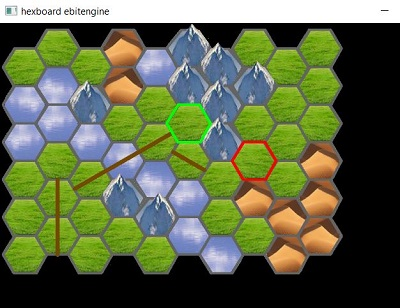
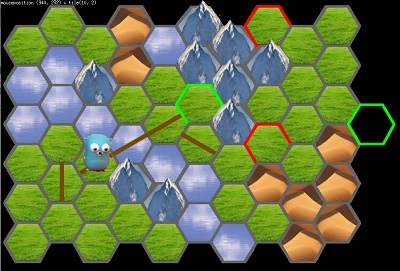
first sprite

diff --git a/main.go b/main.go
@@ -10,6 +10,11 @@ import (
 	"github.com/hajimehoshi/ebiten/v2/ebitenutil"
 )
 
+
+const screenWidth  = 1200
+const screenHeight = 800
+const maxAngle     = 256
+
 const columns = 10
 const rows = 6
 const tilewidth = 128
@@ -21,6 +26,8 @@ const floor1start = 4
 
 var terrainimages []*ebiten.Image
 var terrainimagenames [8]string
+var spriteimages []*ebiten.Image
+var spriteimagenames [8]string
 
 var terrainmap0 = [rows][columns]int{
 	{0, 0, 0, 3, 1, 2, 2, 0, 0, 0},
@@ -66,7 +73,6 @@ func init() {
 	terrainimagenames[5] = "road2.png"
 	terrainimagenames[6] = "companygreen.png"
 	terrainimagenames[7] = "companyred.png"
-
 	for i := 0; i < 8; i++ {
 		var err error
 		var tmpimage *ebiten.Image
@@ -78,6 +84,20 @@ func init() {
 		}
 		terrainimages = append(terrainimages, tmpimage)
 	}
+
+	spriteimagenames[0] = "gopher.png"
+	for i := 0; i < 1; i++ {
+		var err error
+		var tmpimage *ebiten.Image
+		var tmpstring string
+		tmpstring = "resources/sprites/" + spriteimagenames[i]
+		tmpimage, _, err = ebitenutil.NewImageFromFile(tmpstring)
+		if err != nil {
+			log.Fatal(err)
+		}
+		spriteimages = append(spriteimages, tmpimage)
+	}
+
 }
 
 type touch struct {
@@ -94,6 +114,9 @@ type Game struct {
 	cursor  pos
 	touches []touch
 	count   int
+	sprites  Sprites
+	inited   bool
+	op       ebiten.DrawImageOptions
 }
 
 type point struct {
@@ -118,7 +141,60 @@ type Orientation struct {
 };
 
 
+type Sprite struct {
+	imageWidth  int
+	imageHeight int
+	x           int
+	y           int
+	vx          int
+	vy          int
+	angle       int
+}
+
+func (s *Sprite) Update() {
+	s.x += s.vx
+	s.y += s.vy
+	if s.x < 0 {
+		s.x = -s.x
+		s.vx = -s.vx
+	} else if mx := screenWidth - s.imageWidth; mx <= s.x {
+		s.x = 2*mx - s.x
+		s.vx = -s.vx
+	}
+	if s.y < 0 {
+		s.y = -s.y
+		s.vy = -s.vy
+	} else if my := screenHeight - s.imageHeight; my <= s.y {
+		s.y = 2*my - s.y
+		s.vy = -s.vy
+	}
+	//s.angle++
+	//if s.angle == maxAngle {
+	//	s.angle = 0
+	//}
+}
+
+type Sprites struct {
+	sprites []*Sprite
+	num     int
+}
+
+func (s *Sprites) Update() {
+	for i := 0; i < s.num; i++ {
+		s.sprites[i].Update()
+	}
+}
+
+const (
+	MinSprites = 0
+	MaxSprites = 50000
+)
+
+
 func (g *Game) Update() error {
+	if !g.inited {
+		g.init()
+	}
 	mx, my := ebiten.CursorPosition()
 	//if ebiten.IsMouseButtonPressed(ebiten.MouseButtonLeft) {
 	//	g.paint(g.canvasImage, mx, my)
@@ -128,6 +204,8 @@ func (g *Game) Update() error {
 		x: mx,
 		y: my,
 	}
+
+	g.sprites.Update()
 
 	return nil
 }
@@ -266,21 +344,60 @@ func (g *Game) Draw(screen *ebiten.Image) {
 	op := &ebiten.DrawImageOptions{}
 	drawHex(screen)
 	var p point
-	var h hex
+	var hx hex
 
 	p.x = float64(g.cursor.x)
 	p.y = float64(g.cursor.y)
-	h = pixel_to_hex(p)
-	msg := fmt.Sprintf("mouseposition (%d, %d) = tile(%d, %d)", g.cursor.x, g.cursor.y, h.q, h.r)
+	hx = pixel_to_hex(p)
+	msg := fmt.Sprintf("mouseposition (%d, %d) = tile(%d, %d)", g.cursor.x, g.cursor.y, hx.q, hx.r)
 	
-	op.GeoM.Translate(float64(tilesizex*3/4)*float64(h.q), float64(h.r)*tilesizey)
-	if h.q%2 == 0 {
+	op.GeoM.Translate(float64(tilesizex*3/4)*float64(hx.q), float64(hx.r)*tilesizey)
+	if hx.q%2 == 0 {
 		op.GeoM.Translate(0, float64(tilesizey/2))
 	}
 	screen.DrawImage(terrainimages[6], op)
 
+	for i := 0; i < 1; i++ {
+		var w int = spriteimages[0].Bounds().Dx()
+		var h int = spriteimages[0].Bounds().Dy()
+		//w, h := ebitenImage.Bounds().Dx(), ebitenImage.Bounds().Dy()
+		for i := 0; i < g.sprites.num; i++ {
+			s := g.sprites.sprites[i]
+			g.op.GeoM.Reset()
+			g.op.GeoM.Translate(-float64(w)/2, -float64(h)/2)
+			g.op.GeoM.Rotate(2 * math.Pi * float64(s.angle) / maxAngle)
+			g.op.GeoM.Translate(float64(w)/2, float64(h)/2)
+			g.op.GeoM.Translate(float64(s.x), float64(s.y))
+			screen.DrawImage(spriteimages[0], &g.op)
+		}
+	}	
 
 	ebitenutil.DebugPrint(screen, msg)
+
+}
+
+func (g *Game) init() {
+	defer func() {
+		g.inited = true
+	}()
+
+	g.sprites.sprites = make([]*Sprite, 1)
+	g.sprites.num = 1
+	
+	w, h := spriteimages[0].Bounds().Dx(), spriteimages[0].Bounds().Dy()
+	x, y := 160, 300
+	vx, vy := 0, 0
+	a := 0
+	g.sprites.sprites[0] = &Sprite{
+		imageWidth:  w,
+		imageHeight: h,
+		x:           x,
+		y:           y,
+		vx:          vx,
+		vy:          vy,
+		angle:       a,
+	}
+
 }
 
 func (g *Game) Layout(outsideWidth, outsideHeight int) (screenWidth, screenHeight int) {
